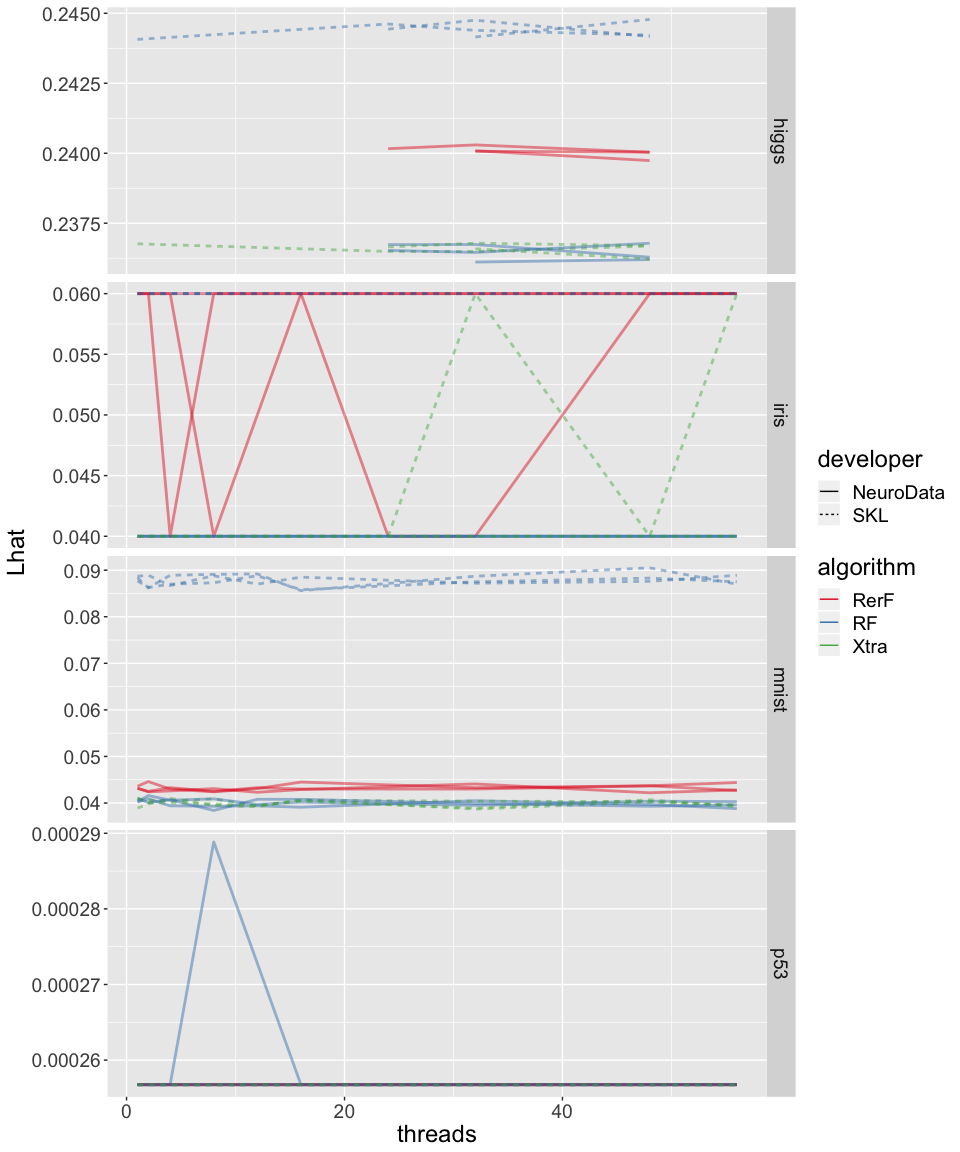
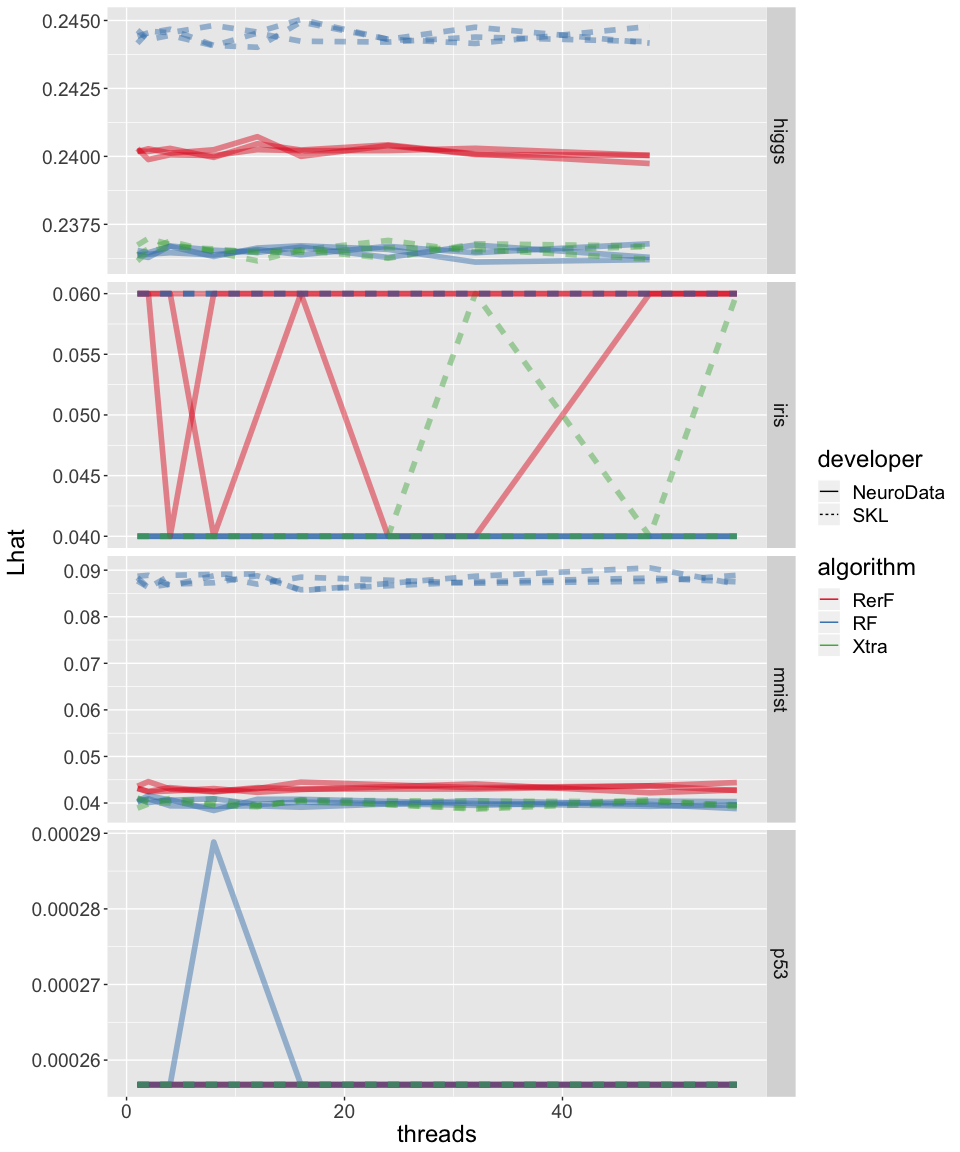
add data file with completion of higgs data.

diff --git a/docs/demos/comparisons/testing_times.py b/docs/demos/comparisons/testing_times.py
@@ -1,4 +1,17 @@
 
+'''
+Neurodata 2019
+
+Author: Jesse Patsolic
+
+Description:
+    RerF demo script for measuring testing times between Neurodata-RF,
+    Neurodata-RerF, SK-learn-RF, and SK-learn-XtraTrees classifiers on 4
+    datasets.  NB: It takes between 12-25 hours on 1 core to train the Higgs
+    dataset (for one run  of one classifier).
+'''
+
+
 ##%%
 import pandas as pd
 import time, multiprocessing
@@ -134,7 +147,7 @@ if __name__ == "__main__":
 
     NRUNS = 3
     
-    names = ['iris', 'mnist', 'higgs', 'p53']
+    names = ['iris', 'mnist', 'p53', 'higgs']
 
     for ni in names:
         pythonFile = "testing_times_python_" + ni + ".csv"

diff --git a/docs/demos/comparisons/testing_times.rst b/docs/demos/comparisons/testing_times.rst
@@ -26,6 +26,7 @@ Download the output data `here <https://raw.githubusercontent.com/neurodata/RerF
 
 .. code:: python
 
+   ##%%
    import pandas as pd
    import time, multiprocessing
    import numpy as np
@@ -33,14 +34,25 @@ Download the output data `here <https://raw.githubusercontent.com/neurodata/RerF
    from rerf.RerF import fastPredict, fastPredictPost, fastRerF
    from rerf.rerfClassifier import rerfClassifier
 
-   import numpy as np
-   import matplotlib.pyplot as plt
-   from matplotlib.colors import ListedColormap
-
    from sklearn import datasets
    from sklearn.ensemble import ExtraTreesClassifier
    from sklearn.ensemble import RandomForestClassifier, AdaBoostClassifier
+   import numpy as np
+   import matplotlib.pyplot as plt
+   from matplotlib.colors import ListedColormap
    from sklearn.model_selection import train_test_split
+   from sklearn.preprocessing import StandardScaler
+   from sklearn.datasets import make_moons, make_circles, make_classification
+   from sklearn.neural_network import MLPClassifier
+   from sklearn.neighbors import KNeighborsClassifier
+   from sklearn.svm import SVC
+   from sklearn.gaussian_process import GaussianProcessClassifier
+   from sklearn.gaussian_process.kernels import RBF
+   from sklearn.tree import DecisionTreeClassifier
+   from sklearn.ensemble import ExtraTreesClassifier
+   from sklearn.ensemble import RandomForestClassifier, AdaBoostClassifier
+   from sklearn.naive_bayes import GaussianNB
+   from sklearn.discriminant_analysis import QuadraticDiscriminantAnalysis
 
 
    ##%%
@@ -48,15 +60,10 @@ Download the output data `here <https://raw.githubusercontent.com/neurodata/RerF
        if name == "iris":
            print('loading ' + name)
            iris = datasets.load_iris()
-           rng = check_random_state(0)
-           perm = rng.permutation(iris.target.size)
-           iris.data = iris.data[perm]
-           iris.target = iris.target[perm]
-
-           Xtrain = iris.data[0:100, :]
-           Ytrain = iris.target[0:100]
-           Xtest = iris.data[100::, :]
-           Ytest = iris.target[100::]
+           Xtrain = iris.data
+           Ytrain = iris.target
+           Xtest = iris.data
+           Ytest = iris.target
            print("DONE")
 
 
@@ -83,7 +90,6 @@ Download the output data `here <https://raw.githubusercontent.com/neurodata/RerF
            Ytest = np.int8(Xtest[0])
            Xtest = np.asarray(Xtest.drop([0], axis=1))
            print("DONE")
-
 
        if name == "p53":
            print('loading ' + name)
@@ -150,12 +156,12 @@ Download the output data `here <https://raw.githubusercontent.com/neurodata/RerF
 
    if __name__ == "__main__":
        NTREES = 500
-       NCPU = [1, 2, 4, 8, 16, 24, 32, 48, 56]
+       NCPU = [1, 2, 4, 8, 16, 32, 48, 56]
        NCPU.reverse()
 
        NRUNS = 3
        
-       names = ['iris', 'mnist', 'higgs', 'p53']
+       names = ['iris', 'mnist', 'p53', 'higgs']
 
        for ni in names:
            pythonFile = "testing_times_python_" + ni + ".csv"
@@ -178,7 +184,7 @@ Read in measurements and plot (in R)
    dA$developer <- factor(c("NeuroData", "NeuroData", "SKL", "SKL")[as.numeric(dA$classifier)])
 
 
-   lineSize <- c(rep(1,3), 1)
+   lineSize <- c(rep(2,3), 1)
    lineAlpha <- c(rep(0.45, 3), 0.2)
 
    ex <- scale_colour_brewer(type = 'qual', palette = "Set1") 
